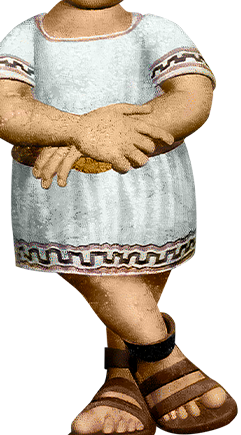
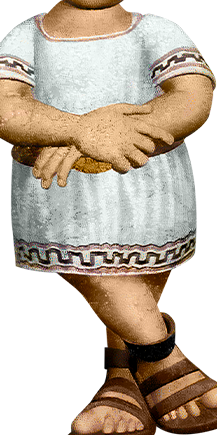
GUI Fixes

diff --git a/The Settlers IV Enhanced Edition/Pages/AppSettings.xaml b/The Settlers IV Enhanced Edition/Pages/AppSettings.xaml
@@ -435,8 +435,15 @@
             </TabControl>
         </StackPanel>
         <Image Margin="0,0,0,0"
-               Height="435"
+               Height="93"
                Width="241"
+               Stretch="Uniform"
+               VerticalAlignment="Bottom"
+               HorizontalAlignment="Left"
+               Source="/Resources/AppSettingsSiedler2.png" />
+        <Image Margin="0,0,0,0"
+               Height="435"
+               Width="217"
                Stretch="Uniform"
                VerticalAlignment="Bottom"
                HorizontalAlignment="Left"
